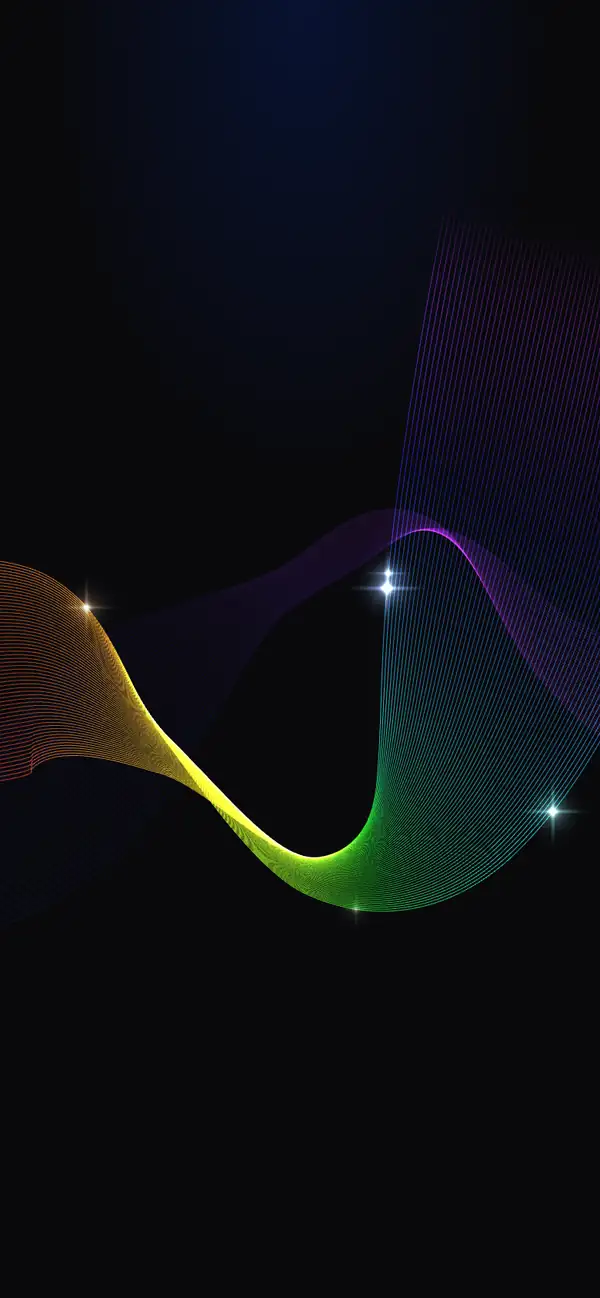
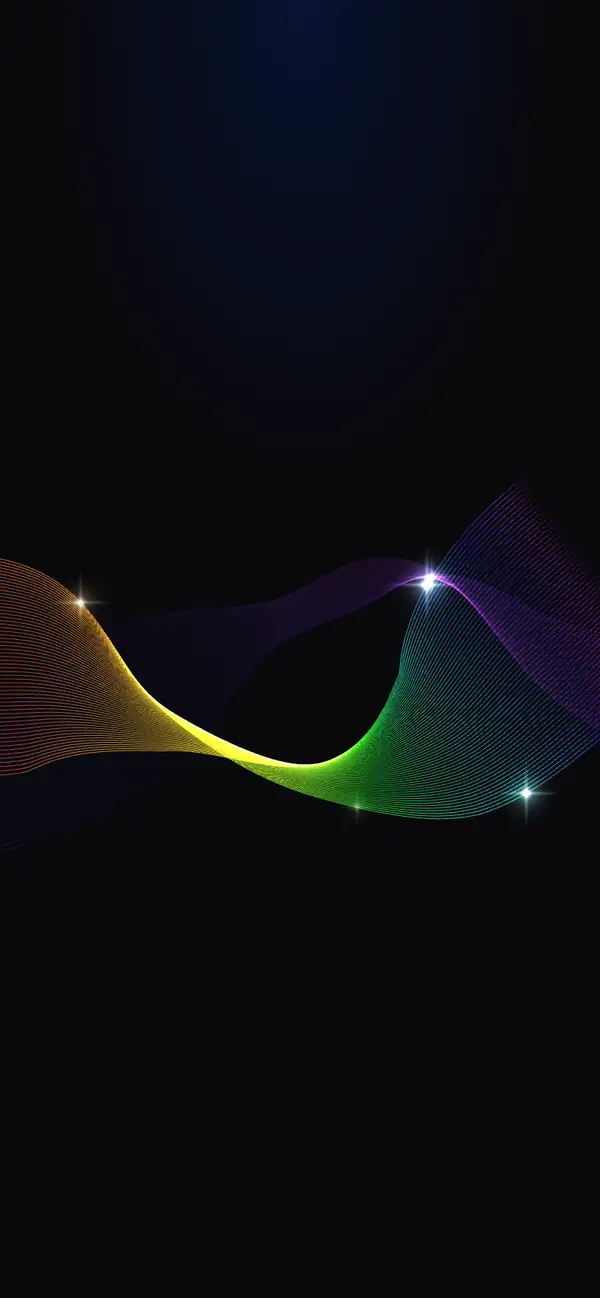
Hero ribbons stay horizontal: flatter poses, horizontal spiral, flatter portrait
Steepest segment on 16:9 84° -> 32°, portrait 46°. Posters re-rendered.

Claude-Session: https://claude.ai/code/session_01M6UYtZP2r1APgZwrmcQ3F8

Changed region(s): [[0.0, 0.1849, 1.0, 0.7088], [0.45, 0.4006, 0.6, 0.4931]]

diff --git a/src/scripts/ribbon-poses.ts b/src/scripts/ribbon-poses.ts
@@ -1,6 +1,7 @@
 /**
  * Ribbon shapes ("poses") traced from the 2023 network motifs (Confluence DIKO "AG Webseite Brainstorming").
  * Each point: [x, y, z, w, twist, hue] (see ribbons.ts). x/y: -1…1 is the visible area, the ends run off-screen.
+ * Keep the ribbons mostly horizontal: no segment steeper than ~35° on a 16:9 screen (check with a script after edits).
  * Hues may run past 1; only the fraction counts (0 red, .08 orange, .15 yellow, .25 lime, .33 green, .5 cyan,
  * .63 blue, .75 violet, .85 magenta).
  *
@@ -8,26 +9,26 @@
  */
 import type { Pose } from './ribbons';
 
-/** Hero mockup: red from the left, dipping under the headline through yellow/green, rising steeply to violet. */
+/** Hero mockup: red from the left, dipping under the headline through yellow/green, rising to violet on the right. */
 const spectrum: Pose = [
-  [-1.25, -0.02, 0.0, 0.22, 0.3, 0.98],
-  [-0.75, 0.04, 0.1, 0.26, 0.75, 1.06],
-  [-0.35, -0.14, 0.25, 0.2, 1.35, 1.14],
-  [0.05, -0.42, 0.15, 0.13, 1.75, 1.26],
-  [0.42, -0.3, -0.1, 0.2, 2.5, 1.46],
-  [0.72, 0.25, -0.25, 0.3, 3.0, 1.63],
-  [1.02, 1.2, -0.35, 0.36, 3.45, 1.84],
+  [-1.25, 0.05, 0.0, 0.22, 0.3, 0.98],
+  [-0.75, 0.06, 0.1, 0.26, 0.75, 1.06],
+  [-0.35, -0.12, 0.25, 0.2, 1.35, 1.14],
+  [0.05, -0.3, 0.15, 0.13, 1.75, 1.26],
+  [0.42, -0.2, -0.1, 0.2, 2.5, 1.46],
+  [0.72, 0.12, -0.25, 0.26, 3.0, 1.63],
+  [1.02, 0.42, -0.35, 0.28, 3.45, 1.84],
 ];
 
-/** Motif 1: yellow curl at the top left, flowing down to the right through orange and red to pink, many turns. */
+/** Motif 1: yellow curl on the left, flowing down to the right through orange and red to pink, many turns. */
 const curl: Pose = [
-  [-1.02, 0.3, 0.0, 0.07, 0.0, 0.16],
-  [-0.92, 0.88, 0.25, 0.16, 1.3, 0.15],
-  [-0.7, 0.42, 0.35, 0.15, 2.3, 0.12],
-  [-0.32, 0.14, 0.15, 0.12, 3.1, 0.07],
-  [0.12, 0.0, 0.0, 0.1, 4.1, 0.02],
-  [0.58, -0.38, -0.15, 0.13, 5.1, -0.04],
-  [1.25, -0.22, -0.3, 0.17, 6.2, -0.1],
+  [-1.25, 0.12, 0.0, 0.07, 0.0, 0.16],
+  [-0.85, 0.36, 0.25, 0.16, 1.3, 0.15],
+  [-0.55, 0.22, 0.35, 0.15, 2.3, 0.12],
+  [-0.2, 0.08, 0.15, 0.12, 3.1, 0.07],
+  [0.2, -0.02, 0.0, 0.1, 4.1, 0.02],
+  [0.62, -0.22, -0.15, 0.13, 5.1, -0.04],
+  [1.25, -0.12, -0.3, 0.17, 6.2, -0.1],
 ];
 
 /** Motif 2: broad green-to-yellow arc with one soft twist in the middle. */
@@ -48,30 +49,30 @@ const wave: Pose = [
   [-0.35, -0.32, 0.25, 0.12, 1.55, 0.78],
   [0.05, -0.2, 0.15, 0.05, 3.15, 0.73],
   [0.45, 0.02, 0.0, 0.21, 3.55, 0.69],
-  [0.8, 0.27, -0.15, 0.33, 3.85, 0.65],
-  [1.25, 0.48, -0.3, 0.4, 4.15, 0.62],
+  [0.8, 0.27, -0.15, 0.26, 3.85, 0.65],
+  [1.25, 0.48, -0.3, 0.3, 4.15, 0.62],
 ];
 
-/** Motif 4: rainbow S, thin and low on the left, a pinch in the dip, fanning wide as it shoots up to the right. */
+/** Motif 4: rainbow S, thin and low on the left, a pinch in the dip, fanning wide as it rises to the right. */
 const rainbowS: Pose = [
-  [-1.25, -0.1, 0.0, 0.06, 0.1, 0.99],
-  [-0.75, -0.08, 0.0, 0.1, 0.4, 1.08],
-  [-0.35, -0.45, 0.15, 0.19, 1.2, 1.18],
-  [0.0, -0.42, 0.3, 0.07, 1.62, 1.33],
-  [0.3, -0.1, 0.15, 0.12, 2.6, 1.5],
-  [0.55, 0.55, -0.15, 0.33, 3.1, 1.66],
-  [0.95, 0.9, -0.35, 0.44, 3.4, 1.82],
+  [-1.25, -0.05, 0.0, 0.06, 0.1, 0.99],
+  [-0.75, -0.06, 0.0, 0.1, 0.4, 1.08],
+  [-0.35, -0.32, 0.15, 0.19, 1.2, 1.18],
+  [0.0, -0.3, 0.3, 0.07, 1.62, 1.33],
+  [0.32, -0.08, 0.15, 0.12, 2.6, 1.5],
+  [0.7, 0.2, -0.15, 0.26, 3.1, 1.66],
+  [1.25, 0.36, -0.35, 0.3, 3.4, 1.82],
 ];
 
-/** Motif 5: the vertical spiral, a narrow band twisting down the right side. */
+/** Motif 5: the spiral, a narrow band with many twists (laid horizontal, Oct 2026: the vertical version stood up too much). */
 const spiral: Pose = [
-  [0.4, 1.3, 0.0, 0.11, 0.0, 0.98],
-  [0.46, 0.78, 0.15, 0.11, 0.9, 1.05],
-  [0.52, 0.34, 0.3, 0.09, 1.85, 1.14],
-  [0.6, -0.02, 0.3, 0.04, 2.95, 1.3],
-  [0.68, -0.36, 0.15, 0.09, 3.65, 1.5],
-  [0.78, -0.78, 0.0, 0.13, 4.25, 1.7],
-  [0.94, -1.3, -0.1, 0.15, 4.85, 1.85],
+  [-1.25, 0.22, 0.0, 0.11, 0.0, 0.98],
+  [-0.8, 0.1, 0.15, 0.11, 0.9, 1.05],
+  [-0.4, -0.06, 0.3, 0.09, 1.85, 1.14],
+  [0.0, -0.14, 0.3, 0.04, 2.95, 1.3],
+  [0.4, -0.06, 0.15, 0.09, 3.65, 1.5],
+  [0.8, 0.1, 0.0, 0.13, 4.25, 1.7],
+  [1.25, 0.24, -0.1, 0.15, 4.85, 1.85],
 ];
 
 /** Same shape, hue numbered one or more turns further round the colour wheel (looks identical). */

diff --git a/src/scripts/ribbons.ts b/src/scripts/ribbons.ts
@@ -429,7 +429,7 @@ export async function createRibbons(canvas: HTMLCanvasElement, opts: RibbonOptio
       const P = rb.poses;
       const live = opts.still ? 0 : 1;
       const sx = rb.flipX ? -1 : 1;
-      const sy = (rb.flipY ? -1 : 1) * (portrait ? 0.62 : 1);
+      const sy = (rb.flipY ? -1 : 1) * (portrait ? 0.42 : 1); // narrow screens: flatter, so the ribbon stays horizontal
       const wMul = (rb.width ?? 1) * (portrait ? 0.75 : 1);
       const base = opts.pose != null ? opts.pose : warp(r, time);
       for (let i = 0; i < N; i++) {

diff --git a/docs/STATUS.md b/docs/STATUS.md
@@ -1,4 +1,4 @@
-# Status (2026-10-16, afternoon)
+# Status (2026-10-19)
 
 ## Done
 - Homepage DE (`/`), dark theme, 10 sections: hero with WebGL ribbons, Sortiment (product cards + marquee),
@@ -31,6 +31,12 @@
   `server.mjs` adds Brotli/gzip + cache headers (`npm start`). Lighthouse local: desktop 100 (TBT 0 ms),
   mobile 99 (TBT 30 ms), was 86 / TBT 320 ms desktop on PageSpeed.
 - Posters: rendered from `/?pose=0` at 1600×900 (landscape) and 390×844 @2x → 600×1298 (portrait), WebP q62.
+
+## Update 19.10.: ribbons stay horizontal
+- Hero poses flattened (spectrum, curl, rainbow S; the spiral is now a horizontal coil, not a vertical one), band
+  ends narrower so the two strands don't swing upright. Steepest segment on 16:9 went from 84° to 32° (target: no
+  segment steeper than ~35°); 21:9 26°, 4:3 40°. Portrait screens squeeze the shape vertically (factor 0.42, was
+  0.62), steepest 46°. Posters re-rendered.
 
 ## Graphics still to come
 - **White Label** (`04-brand.astro`): mini editor is HTML/CSS on purpose (it re-themes live). Keep, or swap the
